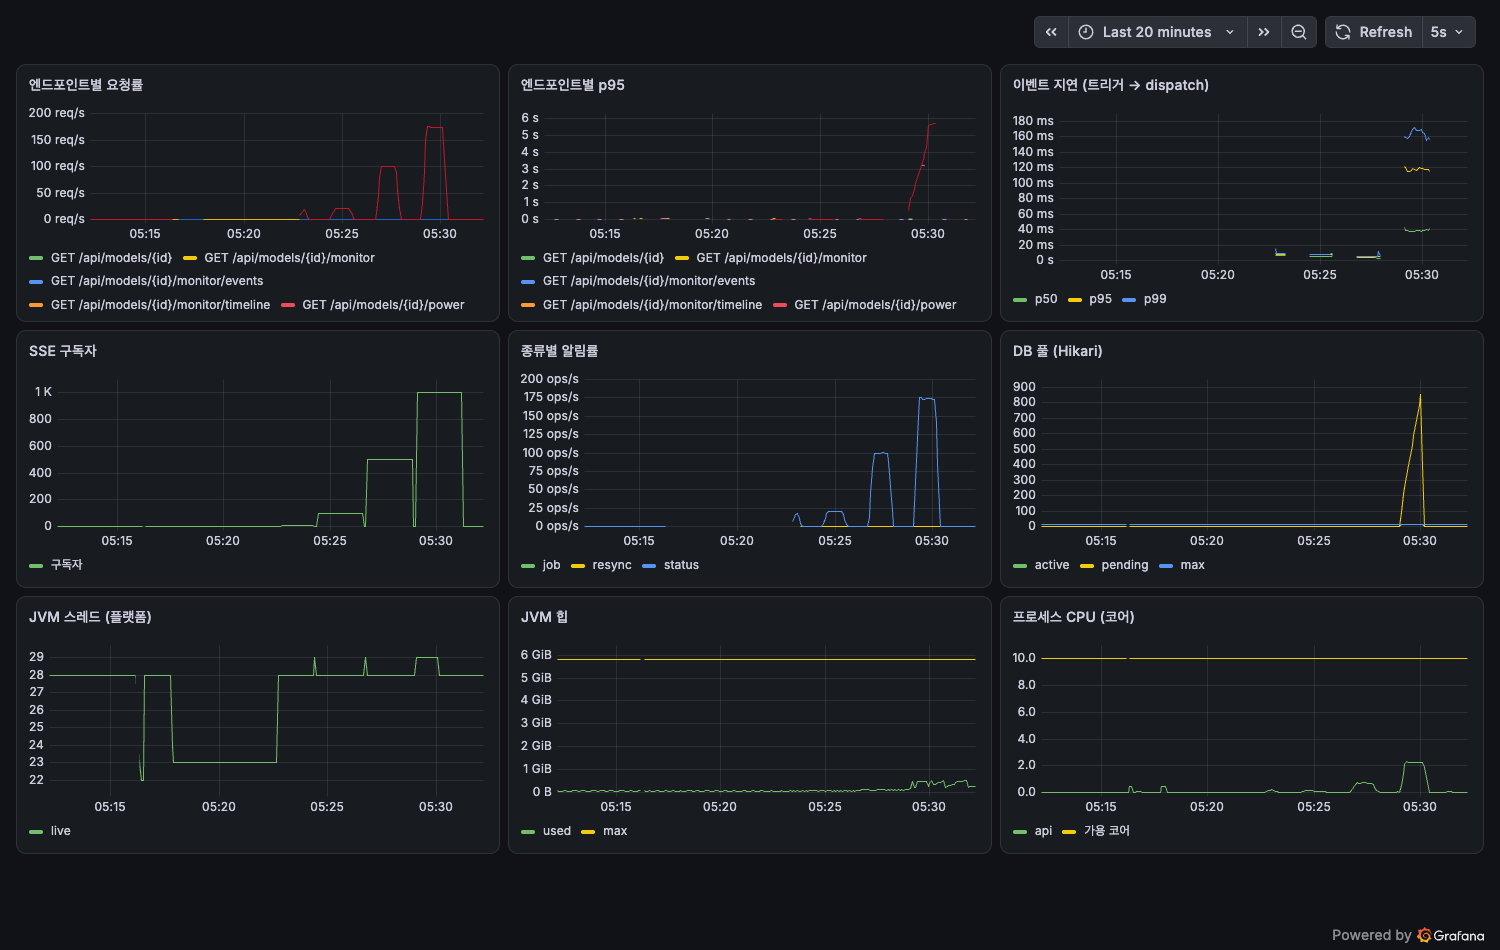
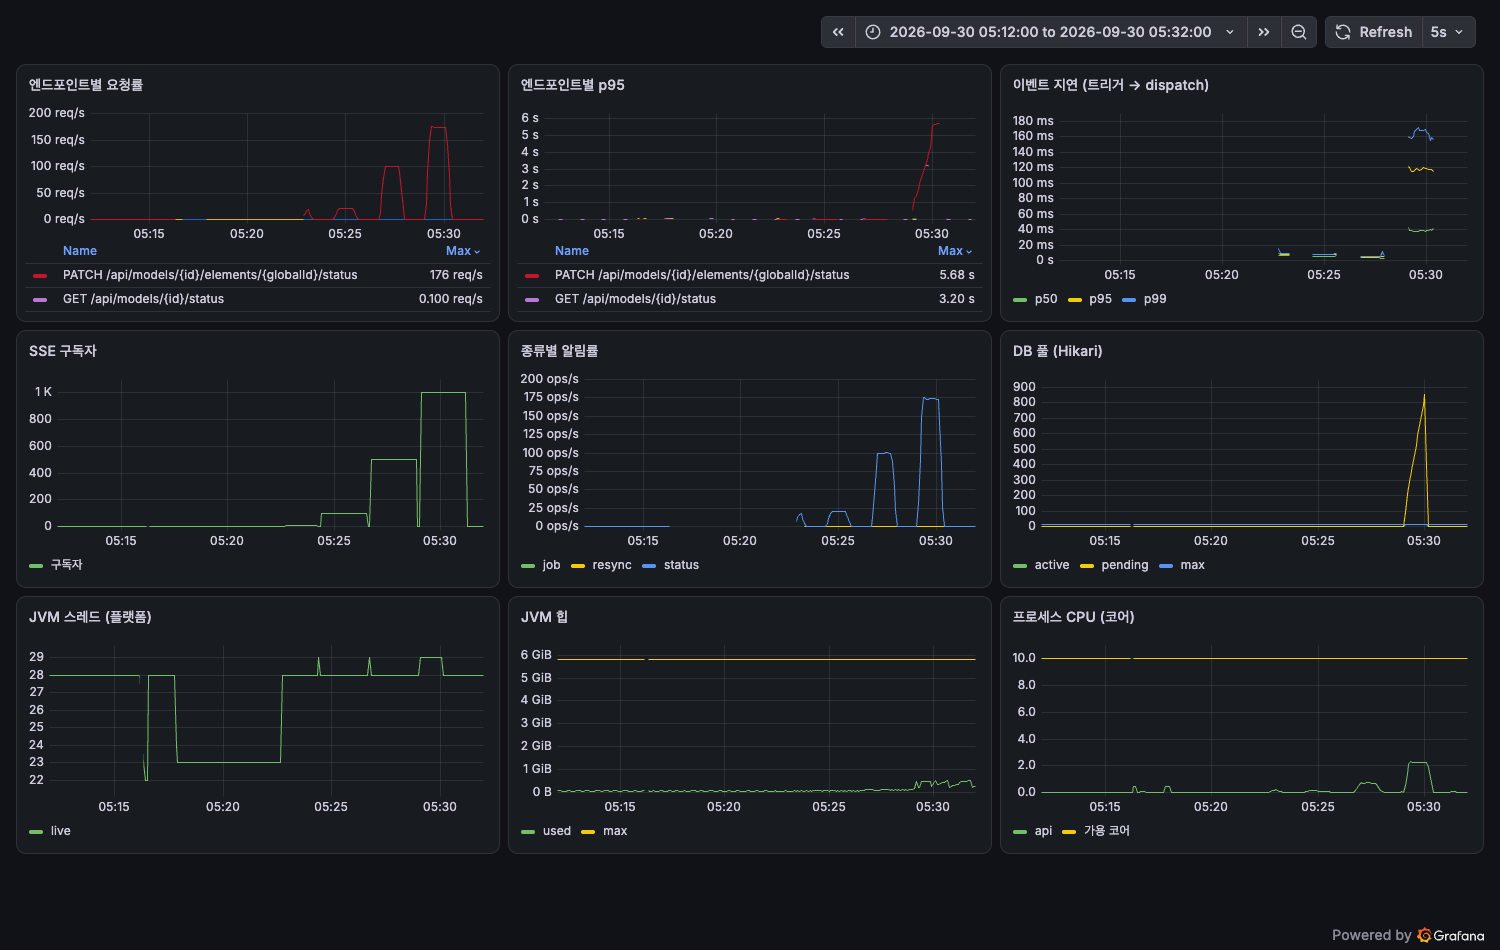
obs: 요청률·p95 패널 범례를 표(최대값 내림차순)로 — PATCH 가 범례 밖으로 밀려 봉우리가 GET 으로 읽히던 문제, 같은 구간 재촬영

diff --git a/docs/superpowers/plans/2026-09-30-r2-3-observability.md b/docs/superpowers/plans/2026-09-30-r2-3-observability.md
@@ -427,6 +427,7 @@ providers:
       "gridPos": { "x": 0, "y": 0, "w": 8, "h": 7 },
       "datasource": { "type": "prometheus", "uid": "prom" },
       "fieldConfig": { "defaults": { "unit": "reqps" }, "overrides": [] },
+      "options": { "legend": { "displayMode": "table", "placement": "bottom", "calcs": ["max"], "sortBy": "Max", "sortDesc": true, "showLegend": true } },
       "targets": [
         { "refId": "A", "expr": "sum by (method, uri) (rate(http_server_requests_seconds_count{uri!~\"/actuator.*|/api/models/[^/]+/(stream|events)\"}[$__rate_interval]))", "legendFormat": "{{method}} {{uri}}" }
       ]
@@ -436,6 +437,7 @@ providers:
       "gridPos": { "x": 8, "y": 0, "w": 8, "h": 7 },
       "datasource": { "type": "prometheus", "uid": "prom" },
       "fieldConfig": { "defaults": { "unit": "s" }, "overrides": [] },
+      "options": { "legend": { "displayMode": "table", "placement": "bottom", "calcs": ["max"], "sortBy": "Max", "sortDesc": true, "showLegend": true } },
       "targets": [
         { "refId": "A", "expr": "histogram_quantile(0.95, sum by (le, method, uri) (rate(http_server_requests_seconds_bucket{uri!~\"/actuator.*|/api/models/[^/]+/(stream|events)\"}[$__rate_interval])))", "legendFormat": "{{method}} {{uri}}" }
       ]
